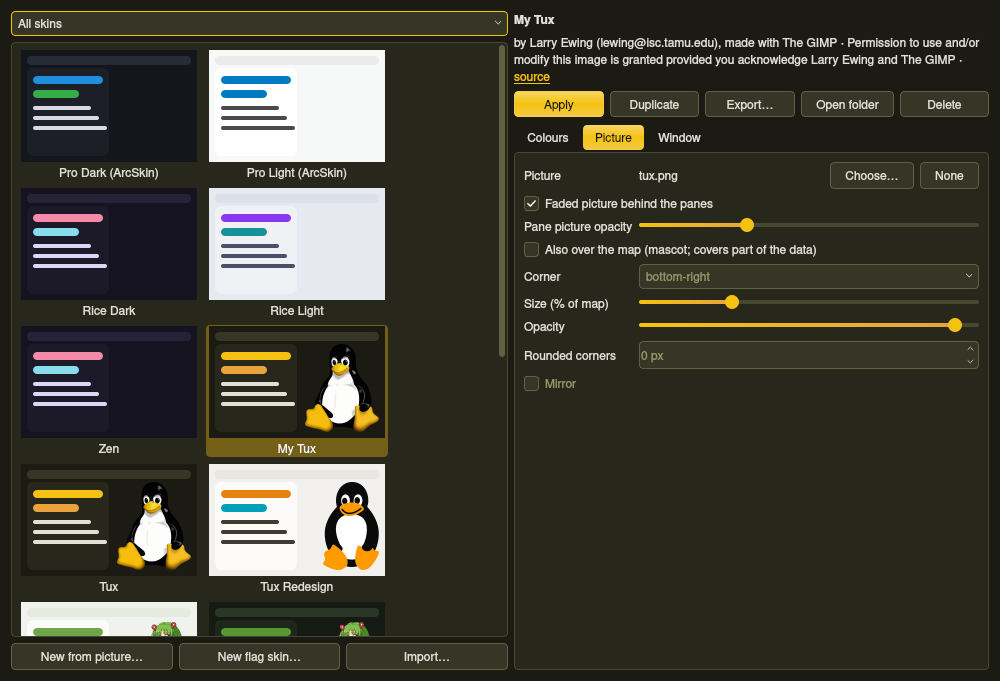
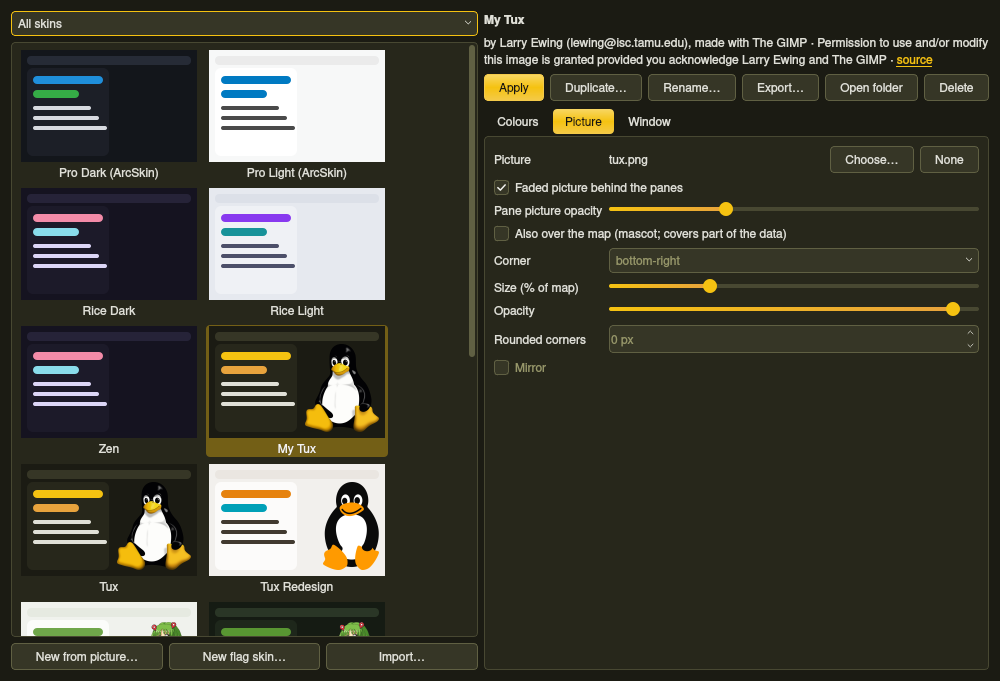
Skin Manager: name copies when duplicating, rename user skins
Duplicate… asks for the copy's name (default "<skin> copy"; cancelling
creates nothing) and a new Rename… button renames a user skin. Only the
display name changes: the folder, and so the active-skin setting, stays.
Built-in skins cannot be renamed. Polish and Portuguese strings, tests,
README and screenshots updated.

diff --git a/qrice/i18n/arcskin_pl.ts b/qrice/i18n/arcskin_pl.ts
@@ -400,6 +400,18 @@
       <translation>Kraj</translation>
     </message>
     <message>
+      <source>Name</source>
+      <translation>Nazwa</translation>
+    </message>
+    <message>
+      <source>Duplicate skin</source>
+      <translation>Duplikuj skórkę</translation>
+    </message>
+    <message>
+      <source>Rename skin</source>
+      <translation>Zmień nazwę skórki</translation>
+    </message>
+    <message>
       <source>Delete skin</source>
       <translation>Usuń skórkę</translation>
     </message>
@@ -428,8 +440,12 @@
       <translation>Importuj…</translation>
     </message>
     <message>
-      <source>Duplicate</source>
-      <translation>Duplikuj</translation>
+      <source>Duplicate…</source>
+      <translation>Duplikuj…</translation>
+    </message>
+    <message>
+      <source>Rename…</source>
+      <translation>Zmień nazwę…</translation>
     </message>
     <message>
       <source>Export…</source>
@@ -502,6 +518,10 @@
     <message>
       <source>Back to the generated colour</source>
       <translation>Przywróć wygenerowany kolor</translation>
+    </message>
+    <message>
+      <source>{} copy</source>
+      <translation>{} (kopia)</translation>
     </message>
     <message>
       <source>Delete the skin “{}” and its pictures?</source>

diff --git a/qrice/i18n/arcskin_pt.ts b/qrice/i18n/arcskin_pt.ts
@@ -400,6 +400,18 @@
       <translation>País</translation>
     </message>
     <message>
+      <source>Name</source>
+      <translation>Nome</translation>
+    </message>
+    <message>
+      <source>Duplicate skin</source>
+      <translation>Duplicar skin</translation>
+    </message>
+    <message>
+      <source>Rename skin</source>
+      <translation>Renomear skin</translation>
+    </message>
+    <message>
       <source>Delete skin</source>
       <translation>Excluir skin</translation>
     </message>
@@ -428,8 +440,12 @@
       <translation>Importar…</translation>
     </message>
     <message>
-      <source>Duplicate</source>
-      <translation>Duplicar</translation>
+      <source>Duplicate…</source>
+      <translation>Duplicar…</translation>
+    </message>
+    <message>
+      <source>Rename…</source>
+      <translation>Renomear…</translation>
     </message>
     <message>
       <source>Export…</source>
@@ -502,6 +518,10 @@
     <message>
       <source>Back to the generated colour</source>
       <translation>Voltar à cor gerada</translation>
+    </message>
+    <message>
+      <source>{} copy</source>
+      <translation>{} (cópia)</translation>
     </message>
     <message>
       <source>Delete the skin “{}” and its pictures?</source>

diff --git a/qrice/manager.py b/qrice/manager.py
@@ -130,7 +130,8 @@ class SkinManager(QDialog):
         row.addWidget(self.apply_button)
         self.buttons = {}
         for key, text, slot in (
-                ("duplicate", tr("Duplicate"), self.duplicate),
+                ("duplicate", tr("Duplicate…"), self.duplicate),
+                ("rename", tr("Rename…"), self.rename),
                 ("export", tr("Export…"), self.export_zip),
                 ("folder", tr("Open folder"), self.open_folder),
                 ("delete", tr("Delete"), self.delete)):
@@ -346,6 +347,7 @@ class SkinManager(QDialog):
             self.readonly.setVisible(not editable)
             self.tabs.setEnabled(editable)
             self.buttons["delete"].setEnabled(editable)
+            self.buttons["rename"].setEnabled(editable)
             data = skin.data
             self.auto_palette.setChecked(data.get("palette") == "auto")
             self.darkness.setCurrentIndex(
@@ -522,9 +524,31 @@ class SkinManager(QDialog):
             self._show_new(skins.new_skin(data.pop("name"), data))
             self.apply()
 
+    def _ask_name(self, title, current):
+        """A non-empty skin name from the user, or None (cancelled)."""
+        name, ok = QInputDialog.getText(self, title, tr("Name"),
+                                        text=current)
+        name = name.strip()
+        return name if ok and name else None
+
     def duplicate(self):
-        if self.skin is not None:
-            self._show_new(skins.duplicate_skin(self.skin))
+        if self.skin is None:
+            return
+        name = self._ask_name(tr("Duplicate skin"),
+                              tr("{} copy").format(self.skin.name))
+        if name:
+            self._show_new(skins.duplicate_skin(self.skin, name))
+
+    def rename(self):
+        """New display name for a user skin; its folder (and so whether
+        it is the active skin) stays the same."""
+        if self.skin is None or not self.skin.editable:
+            return
+        name = self._ask_name(tr("Rename skin"), self.skin.name)
+        if name and name != self.skin.name:
+            self.skin.data["name"] = name
+            skins.write_skin(self.skin)
+            self.refresh()
 
     def delete(self):
         if self.skin is None or not self.skin.editable:

diff --git a/tests/test_manager.py b/tests/test_manager.py
@@ -44,3 +44,48 @@ class NewCharacter(unittest.TestCase):
         self.assertEqual(saved.layout, "pro")
         self.assertEqual(saved.section("panel_bg")["file"].name, "tux.png")
         self.assertNotEqual(skin_variables(saved)["accent"], fixed)
+
+
+class Names(unittest.TestCase):
+
+    def setUp(self):
+        self.tmp = tempfile.TemporaryDirectory()
+        patcher = mock.patch.object(skins, "user_dir",
+                                    return_value=Path(self.tmp.name))
+        patcher.start()
+        self.addCleanup(patcher.stop)
+        self.addCleanup(self.tmp.cleanup)
+        self.manager = SkinManager(FakePlugin())
+
+    def test_duplicate_asks_for_the_copy_s_name(self):
+        self.manager.skin = skins.load_skin("tux")
+        with mock.patch.object(self.manager, "_ask_name",
+                               return_value="Pinguim"):
+            self.manager.duplicate()
+        self.assertEqual(self.manager.skin.name, "Pinguim")
+        self.assertTrue(self.manager.skin.editable)
+
+    def test_cancelled_duplicate_creates_nothing(self):
+        self.manager.skin = skins.load_skin("tux")
+        before = len(skins.list_skins())
+        with mock.patch.object(self.manager, "_ask_name", return_value=None):
+            self.manager.duplicate()
+        self.assertEqual(len(skins.list_skins()), before)
+
+    def test_rename_keeps_the_folder(self):
+        copy = skins.duplicate_skin(skins.load_skin("tux"), "Old name")
+        self.manager.skin = copy
+        with mock.patch.object(self.manager, "_ask_name",
+                               return_value="New name"):
+            self.manager.rename()
+        renamed = skins.load_skin(copy.id)
+        self.assertEqual(renamed.name, "New name")
+        self.assertEqual(renamed.path, copy.path)
+
+    def test_built_in_skins_cannot_be_renamed(self):
+        self.manager.skin = skins.load_skin("tux")
+        with mock.patch.object(self.manager, "_ask_name",
+                               return_value="Nope") as ask:
+            self.manager.rename()
+        ask.assert_not_called()
+        self.assertEqual(skins.load_skin("tux").name, "Tux")

diff --git a/README.md b/README.md
@@ -38,9 +38,10 @@ picture. Double-click a tile, or select it and click **Apply**.
 
 ![Skin Manager with the Tux skin selected: its colours on the Colours tab](docs/images/qrice-manager.png)
 
-Built-in skins are read-only. To change one, select it and click **Duplicate**: the
-copy (here *My Tux*) can be edited, and while it is the active skin every change
-shows at once.
+Built-in skins are read-only. To change one, select it and click **Duplicate…**
+and give the copy a name (here *My Tux*): the copy can be edited, and while it is
+the active skin every change shows at once. **Rename…** changes a copy's name
+later.
 
 - **Colours:** *Colours from the picture* builds the palette from the skin's
   picture; *Theme* forces dark or light. Click a swatch (accent, second accent,
